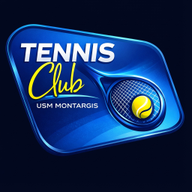
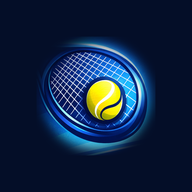
Icône PWA : raquette seule avec marges de sécurité Android
- icon-192/512 : raquette + balle sur fond marine (plus de logo rogné par le masque)
- manifest.json : une seule entrée par taille, purpose "any maskable"
- sw.js : cache v43 -> v44 pour forcer le rafraîchissement des icônes

Claude-Session: https://claude.ai/code/session_01AvgPdaBSE2M4ESYydT9e81

diff --git a/sw.js b/sw.js
@@ -1,4 +1,4 @@
-const CACHE_NAME = 'usm-tennis-v43';
+const CACHE_NAME = 'usm-tennis-v44';
 const ASSETS = [
     '/',
     '/index.html',
